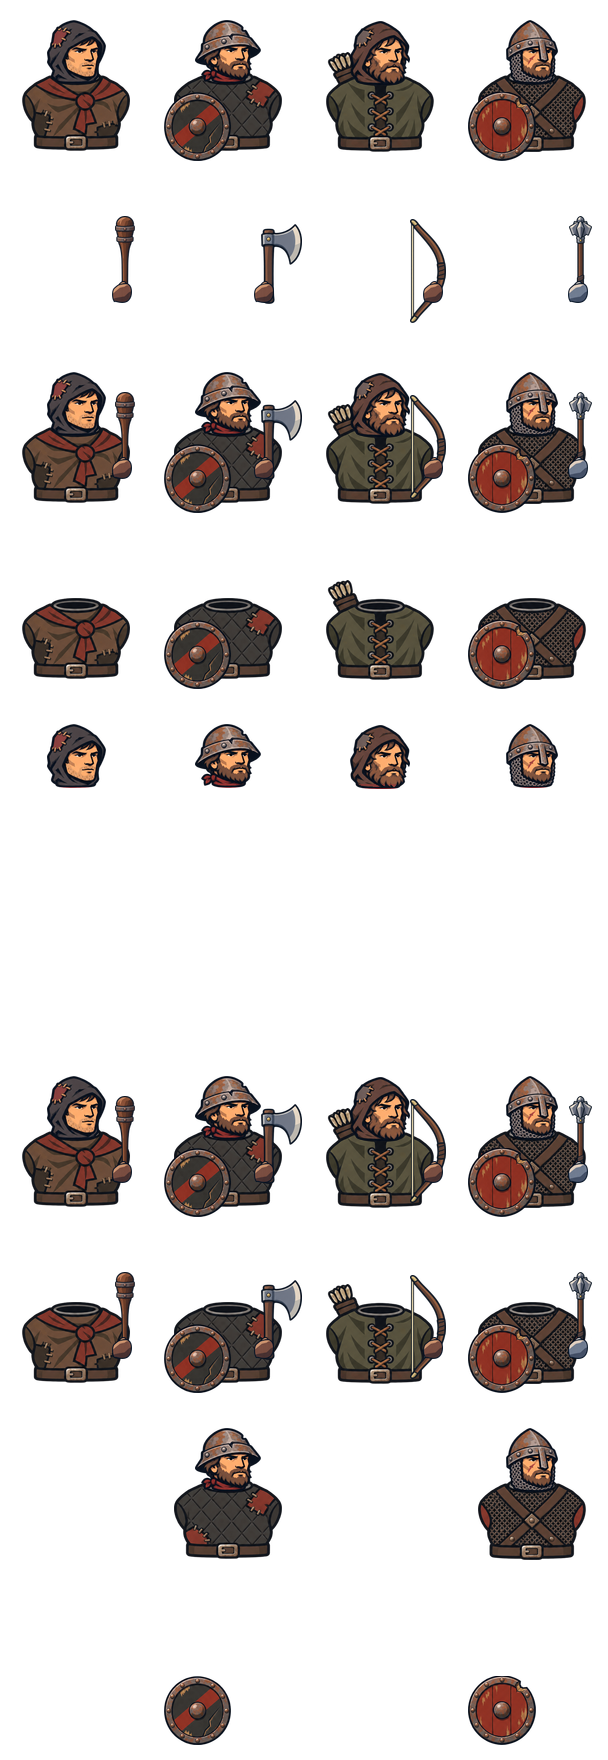
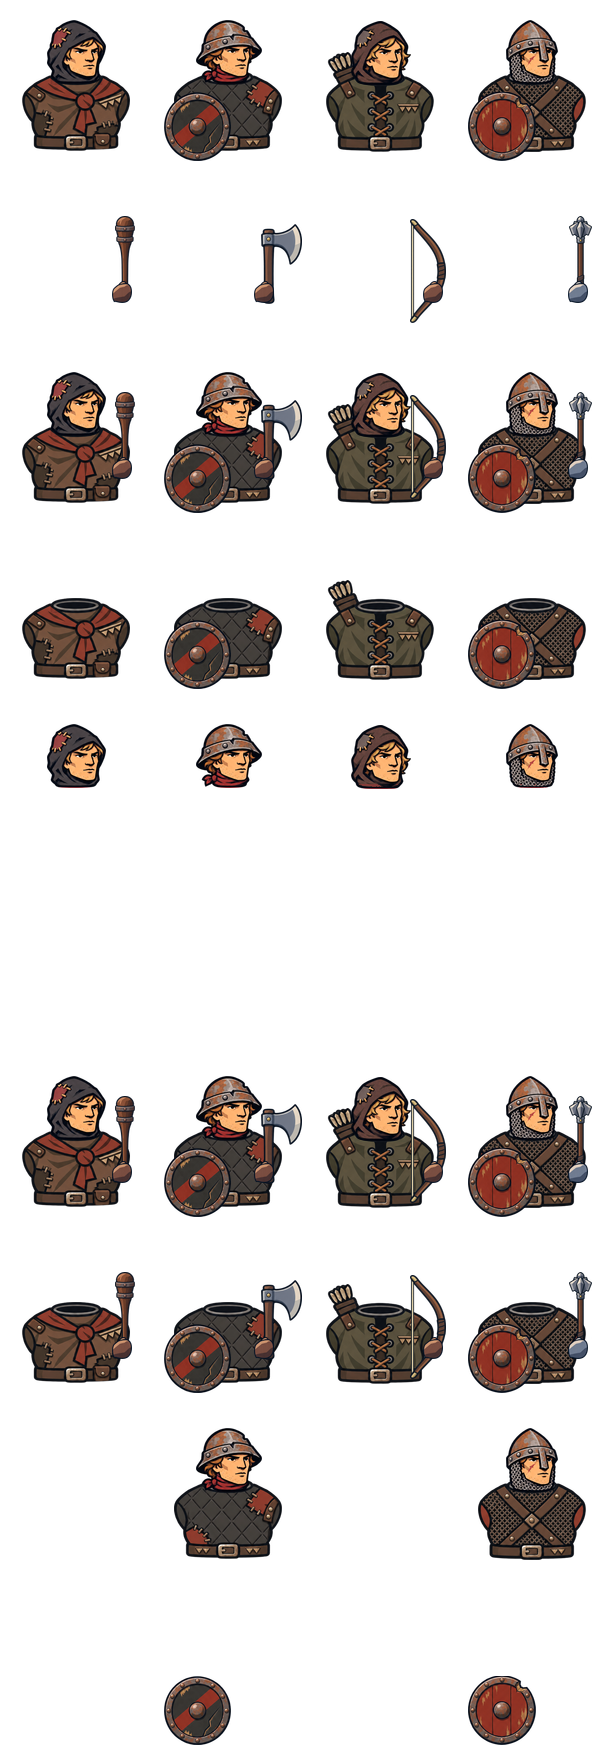
Разбойники: варианты бойцов — другие лица, детали одежды и масти коней (#289) (#300)
Claude-Session: https://claude.ai/code/session_0112NLBndME8PiXpuX2g7p2P

diff --git a/godot/tools/battle/heraldic_source/bandit-prompts.md b/godot/tools/battle/heraldic_source/bandit-prompts.md
@@ -54,3 +54,15 @@ Square canvas, STRICT 3x3 grid of equal cells, one shield centered in each used 
 Generate the image with the built-in image generator and save it as mace.png. Production sprite asset, transparent background, same clean HERALDIC GRAPHIC art style as the attached weapons.png: navy outlines, broad cel-shaded steel, dark brown wood, restrained dull brass, no realistic texture.
 ONE upright medieval flanged mace in the center of a square canvas: a straight dark wooden haft wrapped with leather at the lower third where the hand holds it, a steel head of six flat flanges at the top, a small steel knob at the bottom. It fills most of the canvas height. No hands, no labels, no frames, no shadows. Keep detail economical so it reads at 15-40px.
 ```
+
+## Варианты
+
+Листы `bandit-torsos-v1…v3.png` и `bandit-heads-v1…v3.png` — правка `bandit-torsos.png` / `bandit-heads.png` (вложение)
+тем же генератором, по образцу вариантов Галлии (`kin-prompts.md`): те же клетки, тип одежды и брони, цвета и силуэт,
+другие люди и детали. Туловища: v1 — поношенная ткань с тёмными заплатами, отделка тонкими полосами, простые железные
+пряжки, завязанный кушак; v2 — добавленные ремни или небольшие наплечники, кайма с мелким клетчатым или геометрическим
+узором, заклёпки, поясные сумки; v3 — выцветшая ткань, контрастная отделка ворота, перевязь через грудь у тканевых,
+круглые металлические бляхи, видимые ряды заклёпок на кольчуге. В промпт добавлено «The rim at the back of the neck
+opening keeps the colour it has in the attached sheet, NOT grey». Головы: v1 — пожилые, бороды с проседью, морщины;
+v2 — молодые, бритые или со щетиной, светлые волосы; v3 — широкие лица, тёмные волосы, густые усы или бороды, кое-где
+шрам. Закрывающие лицо уборы меняют одну мелочь: v1 — цвет обмотки, v2 — тонкая полосатая лента, v3 — навершие.
